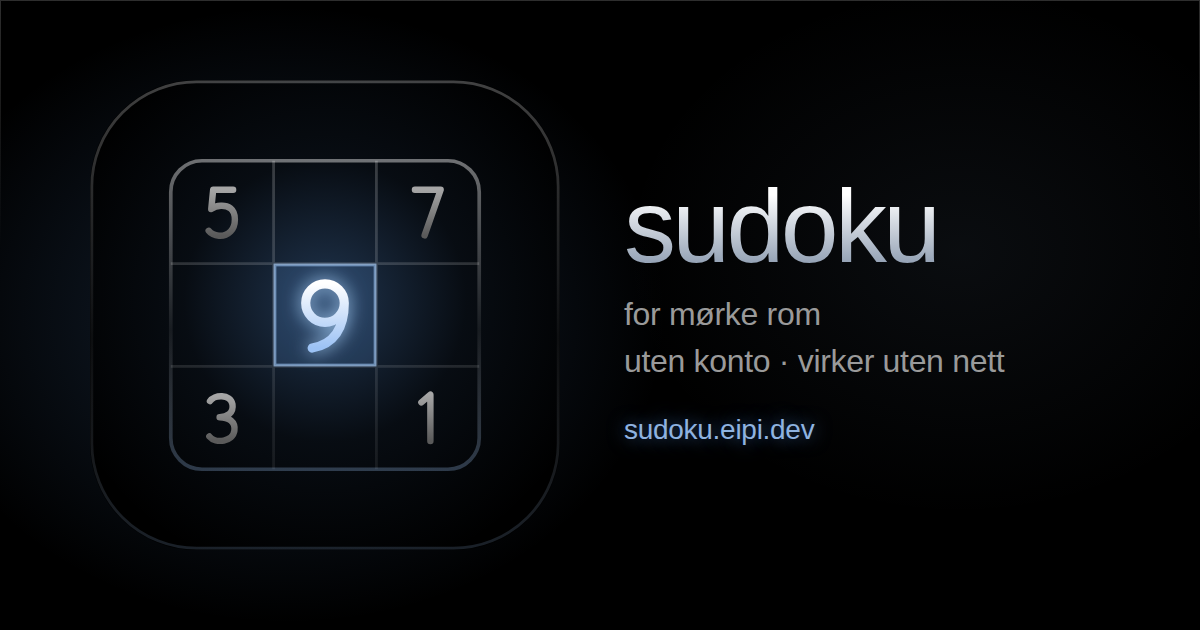
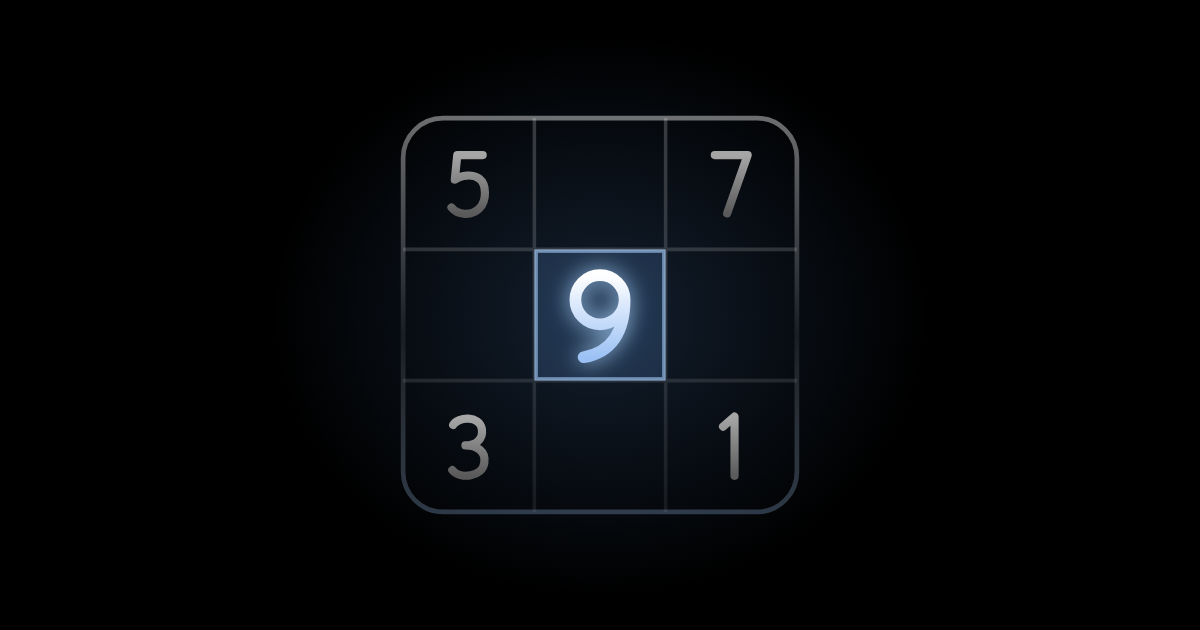
Share image without text; less text in the app
- og-image.png is only the sudoku box with the glowing 9, centred in a soft
  glow: no name, no tagline, no address.
- Descriptions (meta, Open Graph, manifest) and the image alt text are just
  "Sudoku"; "for mørke rom" and the other taglines are gone.
- Fewer words in the app: the two explanations in the appearance panel are
  removed, the import hint is ". eller 0 = tom rute", and the offline
  notes are "frakoblet" and "uten nett".

Claude-Session: https://claude.ai/code/session_01FnrnCiZET9gfn86rHTih9z

diff --git a/public/index.html b/public/index.html
@@ -4,7 +4,7 @@
     <meta charset="utf-8" />
     <meta name="viewport" content="width=device-width, initial-scale=1, maximum-scale=1, user-scalable=no, viewport-fit=cover" />
     <title>Sudoku</title>
-    <meta name="description" content="Sudoku for mørke rom. Uten konto, virker uten nett." />
+    <meta name="description" content="Sudoku" />
     <meta name="color-scheme" content="dark light" />
     <meta name="theme-color" content="#000000" />
     <meta name="apple-mobile-web-app-capable" content="yes" />
@@ -23,12 +23,12 @@
     <meta property="og:type" content="website" />
     <meta property="og:site_name" content="Sudoku" />
     <meta property="og:title" content="Sudoku" />
-    <meta property="og:description" content="Sudoku for mørke rom. Uten konto, virker uten nett." />
+    <meta property="og:description" content="Sudoku" />
     <meta property="og:url" content="%PUBLIC_URL%/" />
     <meta property="og:image" content="%PUBLIC_URL%/og-image.png" />
     <meta property="og:image:width" content="1200" />
     <meta property="og:image:height" content="630" />
-    <meta property="og:image:alt" content="Et svart sudokubrett med en glødende 9" />
+    <meta property="og:image:alt" content="Sudoku" />
     <meta property="og:locale" content="nb_NO" />
     <meta name="twitter:card" content="summary_large_image" />
     <meta name="twitter:image" content="%PUBLIC_URL%/og-image.png" />

diff --git a/public/js/look.js b/public/js/look.js
@@ -138,9 +138,7 @@ export function renderLookPanel(ctx, { onClose, onReset }) {
     const input = h('input', { type: 'checkbox', role: 'switch' });
     input.checked = ctx.settings[w.key];
     input.addEventListener('change', () => ctx.updateSettings({ [w.key]: input.checked }));
-    rows[w.group].push(
-      h('li', {}, h('label', { class: 'switch' }, h('span', {}, w.label), input, h('span', { class: 'track', 'aria-hidden': 'true' }))),
-      h('li', { class: 'hint' }, 'Av: vanlig, flat stil uten gradienter, glød, glass og runde hjørner.'));
+    rows[w.group].push(h('li', {}, h('label', { class: 'switch' }, h('span', {}, w.label), input, h('span', { class: 'track', 'aria-hidden': 'true' }))));
   }
 
   for (const n of LOOK_NUMBERS) {
@@ -184,7 +182,6 @@ export function renderLookPanel(ctx, { onClose, onReset }) {
       h('h2', {}, 'utseende'),
       h('button', { type: 'button', class: 'tool', 'aria-label': 'Lukk', title: 'Lukk', onclick: onClose }, icons.clear())),
     GROUPS.map(([id, title]) => [h('h3', {}, title), h('ul', { class: 'look-list' }, rows[id])]),
-    h('p', { class: 'hint' }, 'Endringene vises på brettet med en gang. Fargene følger paletten til du endrer dem; en ny palett i menyen starter fra sine egne farger.'),
     h('p', { class: 'row' },
       twoTap('tilbakestill alt', () => {
         ctx.updateSettings(lookDefaults(), { now: true });

diff --git a/public/js/landing.js b/public/js/landing.js
@@ -35,7 +35,7 @@ export function renderLanding(app) {
     value: last || undefined,
   });
   const error = h('p', { class: 'hint', role: 'alert', hidden: true }, 'a–z 0–9 æ ø å - _ · 2–30 tegn');
-  const offlineNote = offline ? h('p', { class: 'hint' }, 'Du er uten nett. Første gang trengs nett.') : null;
+  const offlineNote = offline ? h('p', { class: 'hint' }, 'uten nett') : null;
   input.addEventListener('input', () => (error.hidden = true));
   const best = h('div', { class: 'best' });
 

diff --git a/public/js/pages.js b/public/js/pages.js
@@ -112,7 +112,7 @@ export function renderImport(ctx) {
   });
   const pasteBox = h('div', { hidden: true },
     form,
-    h('p', { class: 'hint' }, '81 tegn per brett, . eller 0 for tom rute. Også brett,løsning, CSV og JSON. Hvert brett må ha én løsning.'));
+    h('p', { class: 'hint' }, '. eller 0 = tom rute'));
   const toggle = action('lim inn tekst eller fil', () => {
     pasteBox.hidden = !pasteBox.hidden;
     toggle.hidden = true;

diff --git a/public/js/profile.js b/public/js/profile.js
@@ -473,7 +473,7 @@ export async function renderProfile(app, rawName) {
       board = null;
     }
     const notice = [];
-    if (ctx.offline) notice.push(h('p', { class: 'notice' }, 'frakoblet · lagres lokalt'));
+    if (ctx.offline) notice.push(h('p', { class: 'notice' }, 'frakoblet'));
     if (ctx.message) {
       notice.push(h('p', { class: 'notice' }, ctx.message));
       ctx.message = '';
